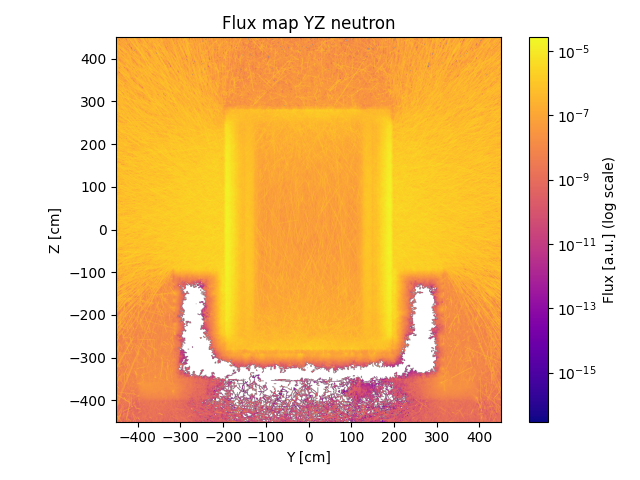
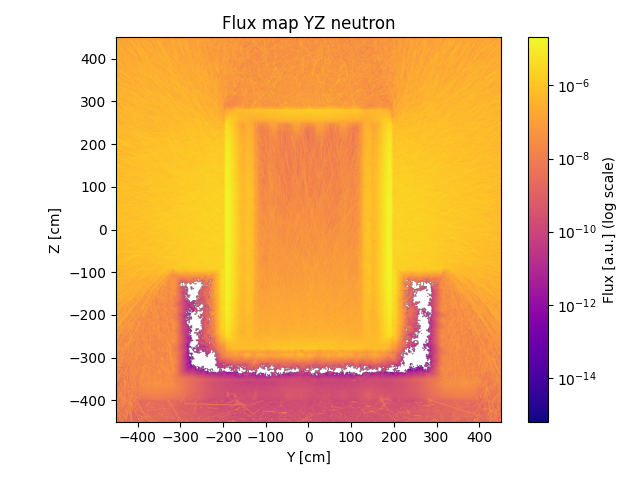
feat:large_bins_ww

diff --git a/src/studies/reactor_study/secondary_source/source_using_weight_window/wwg_creation/wwg_creation.py b/src/studies/reactor_study/secondary_source/source_using_weight_window/wwg_creation/wwg_creation.py
@@ -25,7 +25,7 @@ from src.models.model_complete_reactor import MODEL, GRAPHITE_CELL, CALCULATION_
 
 materials = MODEL.materials
 for index,material in enumerate(materials):
-    materials[index] = reducing_density(material, 10)  
+    materials[index] = reducing_density(material, 2)  
 
 MODEL.materials = materials
 MODEL.export_to_xml()
@@ -36,12 +36,12 @@ settings = openmc.Settings()
 batches_number= 1
 settings.batches = batches_number
 settings.inactive = 0
-settings.particles = 10000000 # try more
+settings.particles = 60000000 # try more
 settings.source = openmc.FileSource('surface_source.h5')
 settings.photon_transport = True
 
 mesh = openmc.RegularMesh().from_domain(geometry)
-mesh.dimension = (30, 30, 30)
+mesh.dimension = (25, 25, 25)
 mesh.lower_left = (-500.0, -500.0, -500.0)
 mesh.upper_right = (500.0, 500.0, 500.0)
 
@@ -63,20 +63,24 @@ mesh_tally_neutron_yz = mesh_tally_plane(name_mesh_tally = "flux_mesh_neutrons_y
                                       plane="yz", bin_number=500, lower_left=(-450.0, -450.0), upper_right=(450.0, 450.0),
                                       thickness= 10.0, coord_value=0.0)
 
+mesh_tally_photon_yz = deepcopy(mesh_tally_neutron_yz)
+mesh_tally_photon_yz.name = "flux_mesh_photons_yz"
+mesh_tally_photon_yz.particle_type = 'photon'
+mesh_tally_photon_yz.id += 1  # Ensure unique ID for the photon tally
+
+
 # Neutron flux tally on the CALCULATION_CELL
 flux_tally_neutron = openmc.Tally(name="flux_tally_neutron")
 flux_tally_neutron.scores = ['flux']
 flux_tally_neutron.filters = [openmc.ParticleFilter("neutron"), openmc.CellFilter(CALCULATION_CELL)]
 
-tallies = openmc.Tallies([flux_tally_neutron, mesh_tally_neutron_yz])
+tallies = openmc.Tallies([flux_tally_neutron, mesh_tally_neutron_yz, mesh_tally_photon_yz])
 
 settings.export_to_xml()
 tallies.export_to_xml()
 
 remove_previous_results(batches_number=batches_number)
 start_time = time.time()
-ww_statepoint_filename = openmc.run()
-
 openmc.run(threads=4)
 end_time = time.time()
 calculation_time = end_time - start_time
@@ -97,6 +101,13 @@ load_mesh_tally(cwd = CWD, statepoint_file = statepoint_file,
                 bin_number=500, lower_left=(-450.0, -450.0), upper_right=(450.0, 450.0), 
                 zoom_x=(-450, 450), zoom_y=(-450, 450), plane="yz", saving_figure=False)
 
+load_mesh_tally(cwd = CWD, statepoint_file = statepoint_file, 
+                name_mesh_tally="flux_mesh_photons_yz", particule_type="photon", 
+                bin_number=500, lower_left=(-450.0, -450.0), upper_right=(450.0, 450.0), 
+                zoom_x=(-450, 450), zoom_y=(-450, 450), plane="yz", saving_figure=False)
+
 ww = openmc.hdf5_to_wws("weight_windows.h5")  
 
-plot_weight_window(weight_window=ww[0], index_coord=15, energy_index=0, saving_fig=True, plane="yz")
+plot_weight_window(weight_window=ww[0], index_coord=15, energy_index=0, saving_fig=True, plane="yz", particle_type='neutron')
+
+plot_weight_window(weight_window=ww[1], index_coord=15, energy_index=0, saving_fig=True, plane="yz", particle_type='photon')

diff --git a/src/studies/reactor_study/secondary_source/source_using_weight_window/wwg_using/wwg_using.py b/src/studies/reactor_study/secondary_source/source_using_weight_window/wwg_using/wwg_using.py
@@ -8,6 +8,7 @@ from pathlib import Path
 import sys 
 from PIL import Image
 import numpy as np
+from copy import deepcopy
 
 CWD = Path(__file__).parent.resolve()
 
@@ -30,7 +31,7 @@ settings = openmc.Settings()
 batches_number= 1
 settings.batches = batches_number
 settings.inactive = 0
-settings.particles = 8000000 # try more
+settings.particles = 40000000 # try more
 settings.source = openmc.FileSource('surface_source.h5')
 settings.photon_transport = True
 
@@ -41,12 +42,16 @@ mesh_tally_neutron_yz = mesh_tally_plane(name_mesh_tally = "flux_mesh_neutrons_y
                                       bin_number=800, lower_left=(-450.0, -450.0), upper_right=(450.0, 450.0),
                                       thickness= 10.0, coord_value=0.0)
 
+mesh_tally_photon_yz = mesh_tally_plane(name_mesh_tally = "flux_mesh_photons_yz", particule_type='photon', plane="yz",
+                                      bin_number=800, lower_left=(-450.0, -450.0), upper_right=(450.0, 450.0),
+                                      thickness= 10.0, coord_value=0.0)
+
 # Neutron flux tally on the CALCULATION_CELL
 flux_tally_neutron = openmc.Tally(name="flux_tally_neutron")
 flux_tally_neutron.scores = ['flux']
 flux_tally_neutron.filters = [openmc.ParticleFilter("neutron"), openmc.CellFilter(CALCULATION_CELL)]
 
-tallies = openmc.Tallies([flux_tally_neutron, mesh_tally_neutron_yz])
+tallies = openmc.Tallies([flux_tally_neutron, mesh_tally_neutron_yz, mesh_tally_photon_yz])
 
 settings.export_to_xml()
 tallies.export_to_xml()
@@ -69,6 +74,8 @@ statepoint_file = openmc.StatePoint(f'statepoint.{batches_number}.h5')
 flux_tally_neutron = statepoint_file.get_tally(name="flux_tally_neutron")
 
 
-load_mesh_tally(cwd = CWD, statepoint_file = statepoint_file, name_mesh_tally="flux_mesh_neutrons_yz",particule_type="neutron", bin_number=800,
+load_mesh_tally(cwd = CWD, statepoint_file = statepoint_file, name_mesh_tally="flux_mesh_neutrons_yz", particule_type="neutron", bin_number=800,
                 lower_left=(-450.0, -450.0), upper_right=(450.0, 450.0), zoom_x=(-450, 450), zoom_y=(-450, 450), plane="yz", saving_figure=True)
 
+load_mesh_tally(cwd = CWD, statepoint_file = statepoint_file, name_mesh_tally="flux_mesh_photons_yz", particule_type="photon", bin_number=800,
+                lower_left=(-450.0, -450.0), upper_right=(450.0, 450.0), zoom_x=(-450, 450), zoom_y=(-450, 450), plane="yz", saving_figure=True)

diff --git a/src/utils/weight_window/weight_window.py b/src/utils/weight_window/weight_window.py
@@ -7,7 +7,8 @@ from matplotlib.colors import LogNorm
 
 
 
-def plot_weight_window(weight_window, index_coord:int=0, energy_index:int=0, plane:str='xy', saving_fig:bool=False):
+def plot_weight_window(weight_window, index_coord:int=0, energy_index:int=0, 
+                       plane:str='xy', saving_fig:bool=False, particle_type:str='neutron'):
     """
     Plot the weight window bounds for a given energy index.
     
@@ -29,7 +30,7 @@ def plot_weight_window(weight_window, index_coord:int=0, energy_index:int=0, pla
         plt.xlabel('Y')
         plt.ylabel('Z')
     plt.colorbar(label='Weight Window Lower Bound')
-    plt.title(f'Weight Window Lower Bounds at Energy Index {energy_index}')
+    plt.title(f'Weight Window Lower Bounds ({particle_type})')
     if saving_fig:
-        plt.savefig(f'weight_window_{plane}.png', dpi=300)
+        plt.savefig(f'weight_window_{plane}_{particle_type}.png', dpi=300)
     plt.show()
